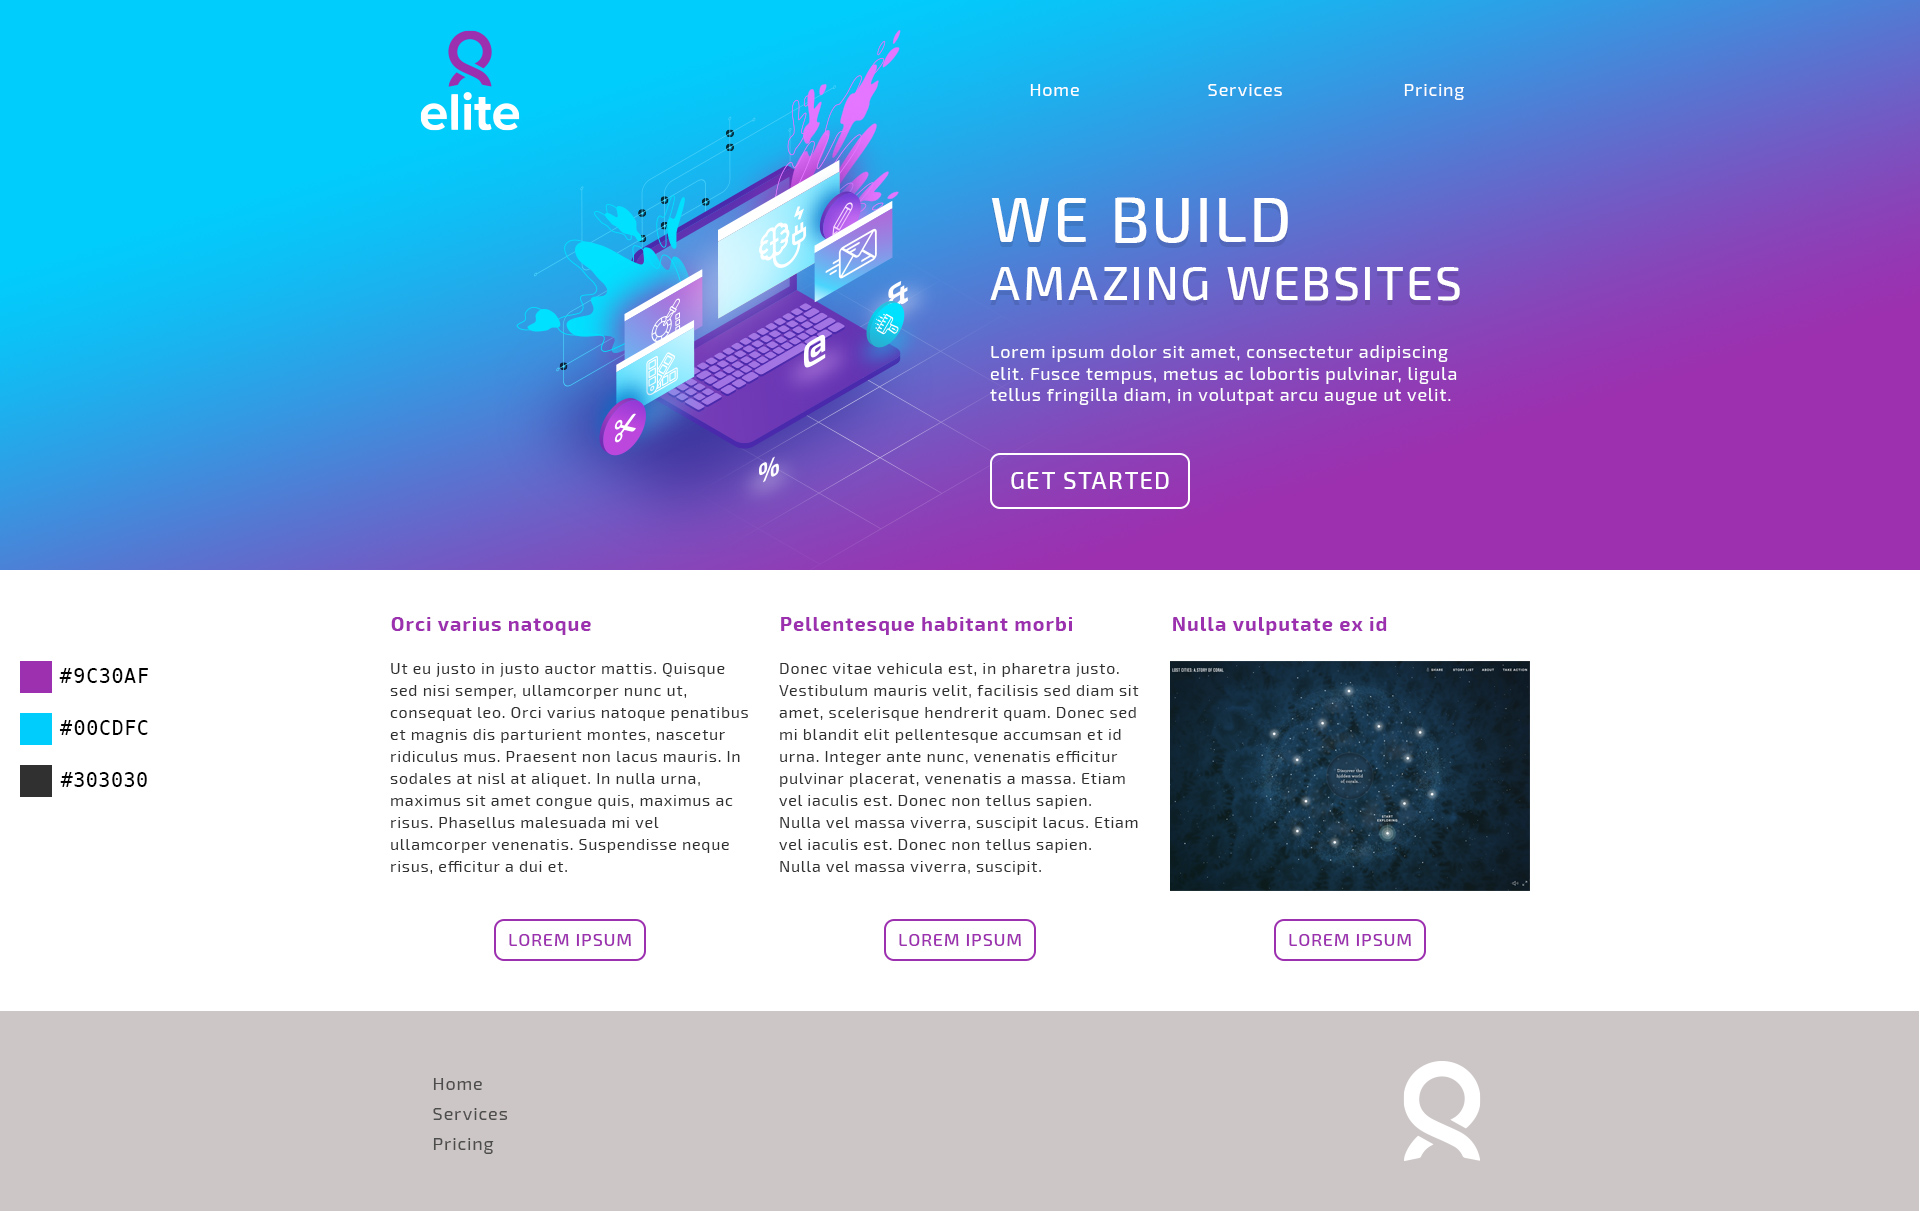
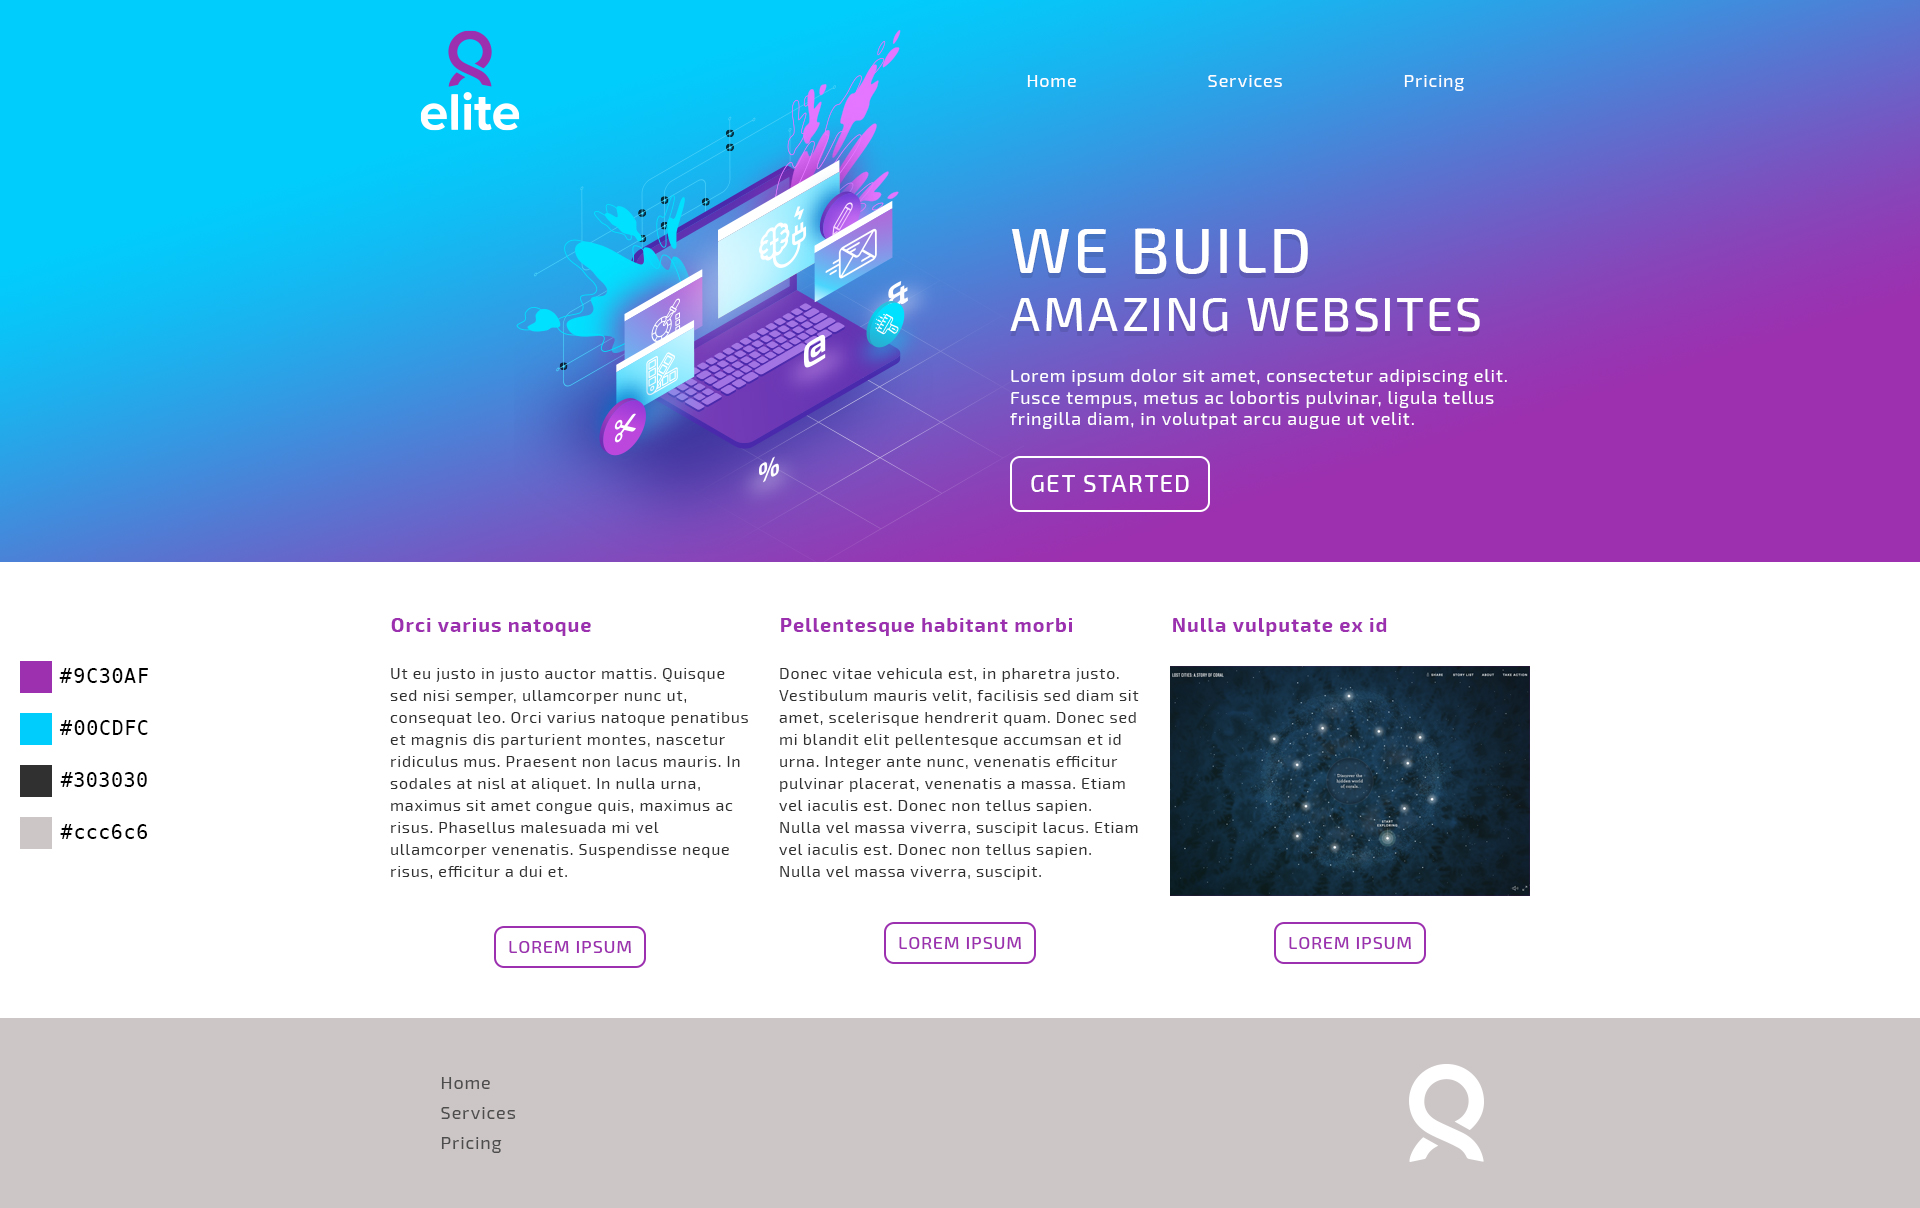
Improved layout. Added annotated home image.

diff --git a/README.md b/README.md
@@ -10,7 +10,7 @@ Fichier __index.html__.
 
 ![Maquette](doc/01-home.jpg)
 
-<!-- [Version annotée](doc/01-home-annotated.jpg) -->
+[Version annotée](doc/01-home-annotated.jpg)
 
 
 ### Services
